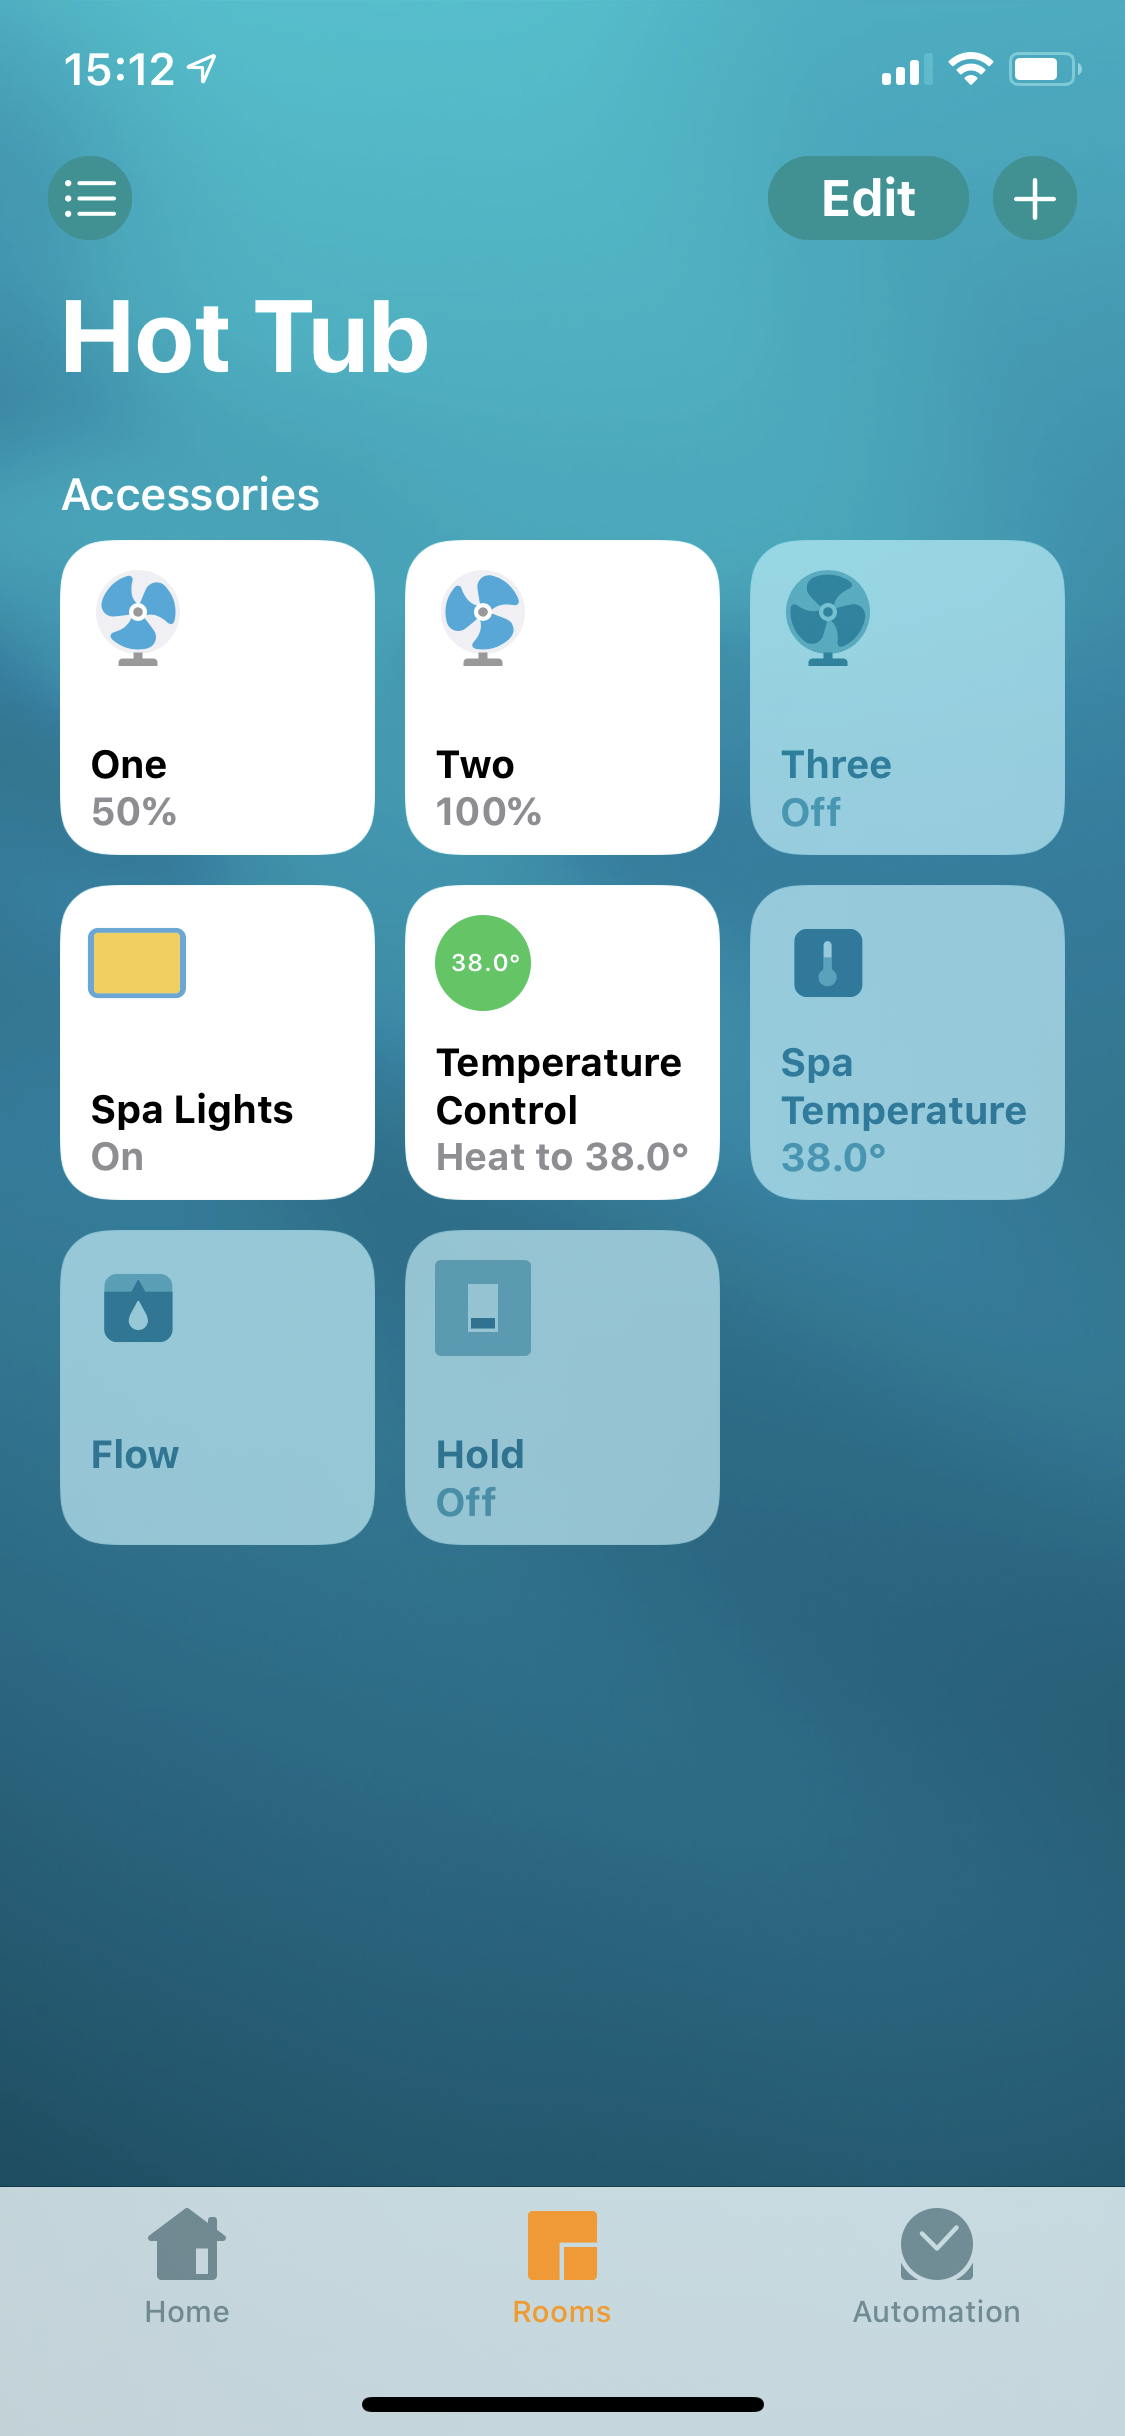
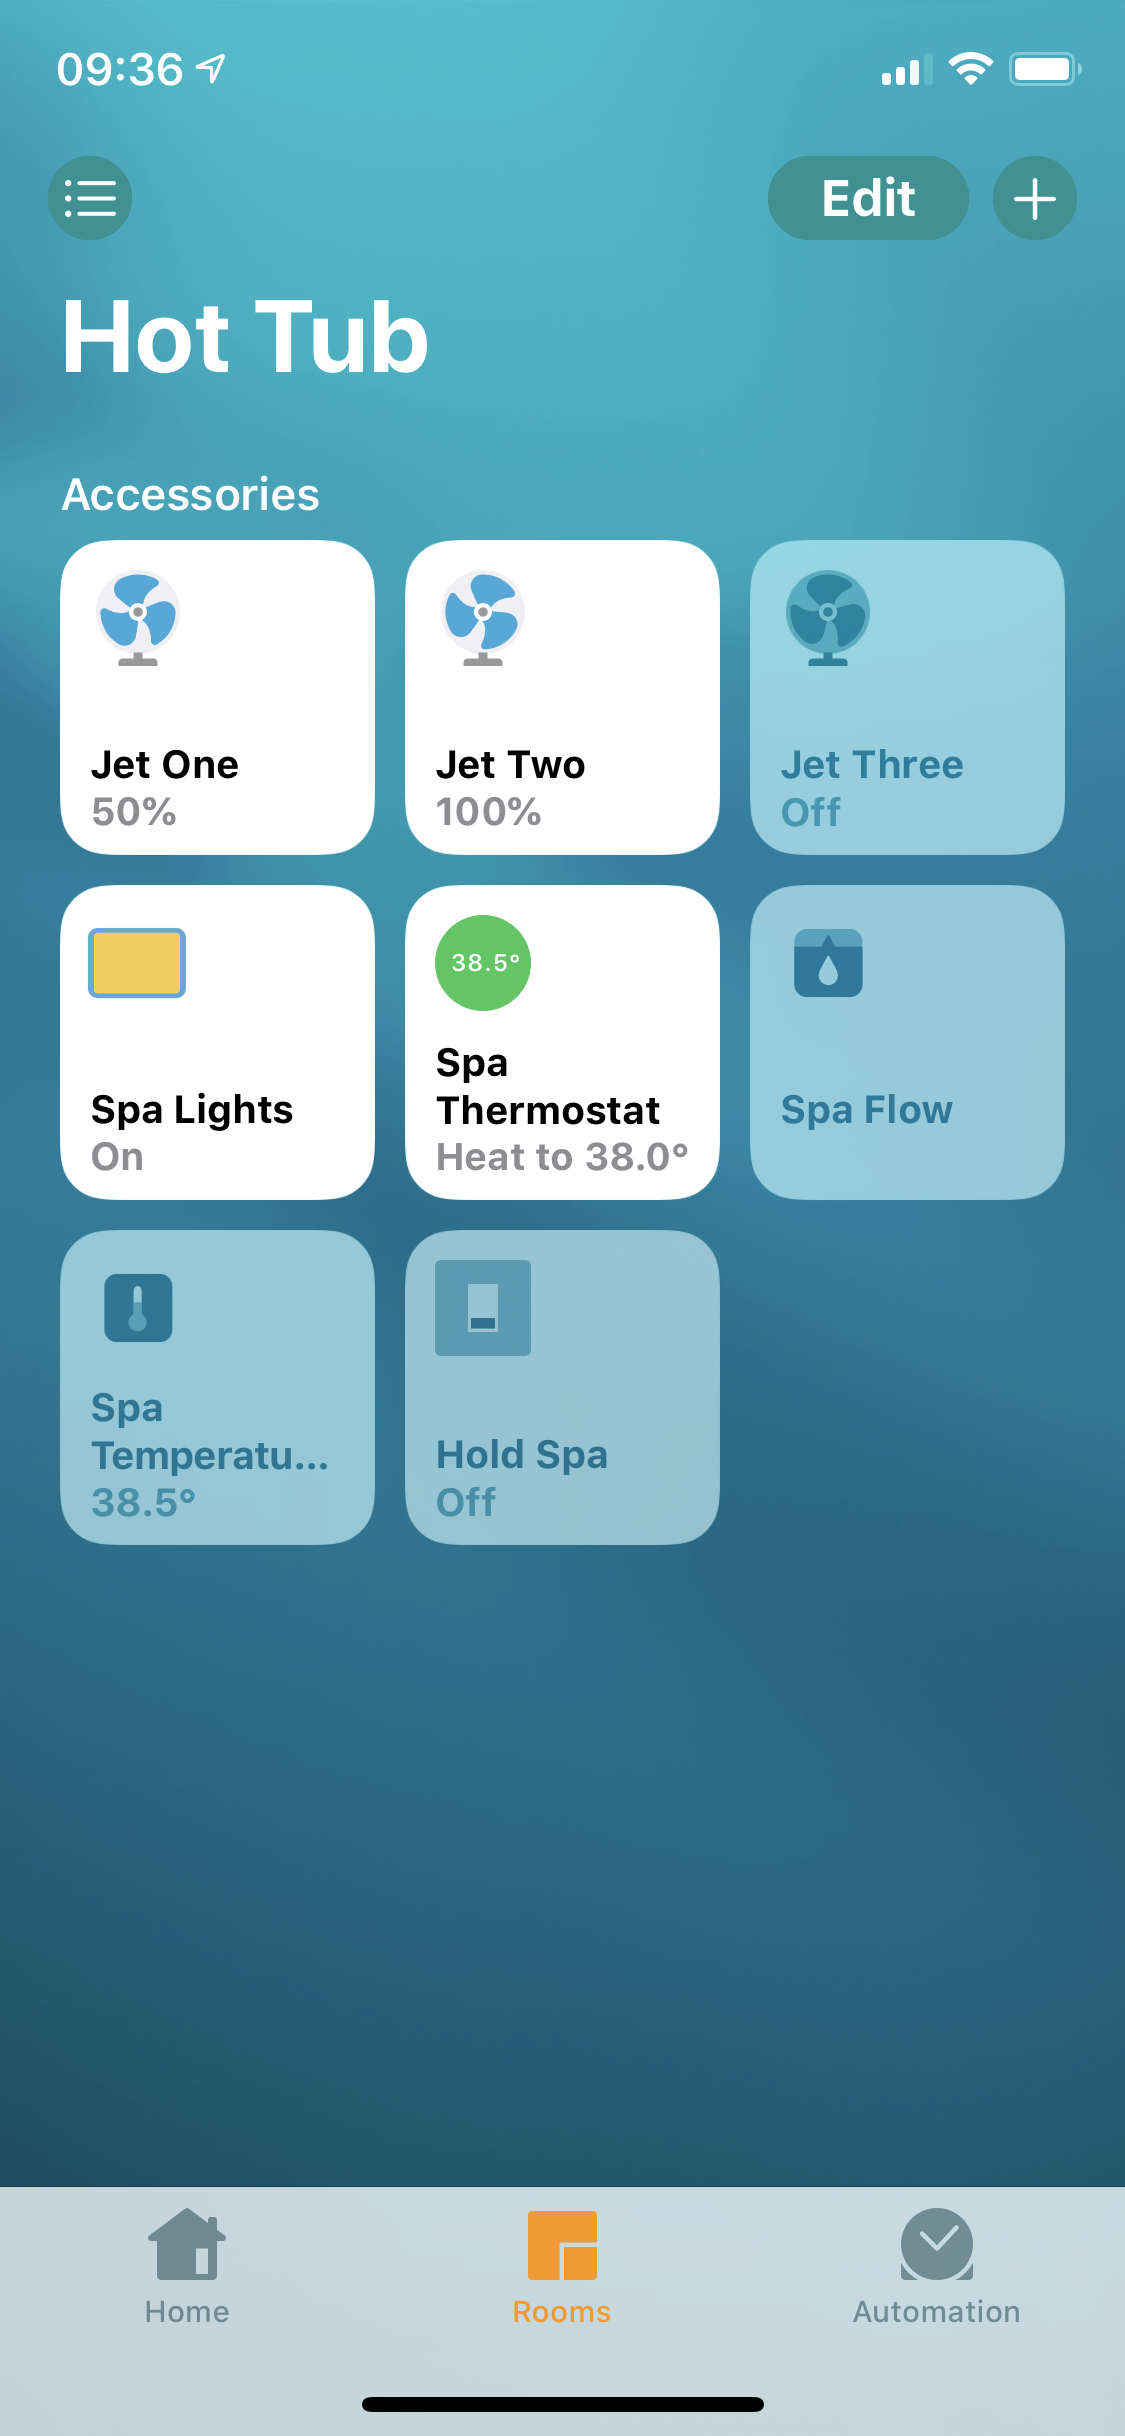
more docs

diff --git a/README.md b/README.md
@@ -63,6 +63,17 @@ There is a "Hold" switch to activate the Spa's hold mode (temporarily turn off a
 
 Finally there are other devices on some spas: a "blower" (typically with 3-speeds), a "mister" and two auxiliary devices (aux1 and aux2).  They are all supported by this plugin, but not yet fully tested (please test them and report back on success or any problems).
 
+## Siri
+
+If you give your accessories good names, Siri works very well. You may need to consider the
+fact that Siri understands your jets/pumps as "fans".  Also in english, "two" and "to" sound the same and I find Siri has trouble therefore with "Jet two".  But overall it works pretty well.
+
+<p align="left">
+  <a href="https://github.com/vincedarley/homebridge-plugin-bwaspa"><img src="https://raw.githubusercontent.com/vincedarley/homebridge-plugin-bwaspa/master/graphics/siri-jet.png" height="400"></a>
+  <a href="https://github.com/vincedarley/homebridge-plugin-bwaspa"><img src="https://raw.githubusercontent.com/vincedarley/homebridge-plugin-bwaspa/master/graphics/siri-temperature.png" height="400"></a>
+</p>
+
+
 ## Here are some sample configs
 
 The default config only requires you to give your Spa a name, with everything else handled automatically:
